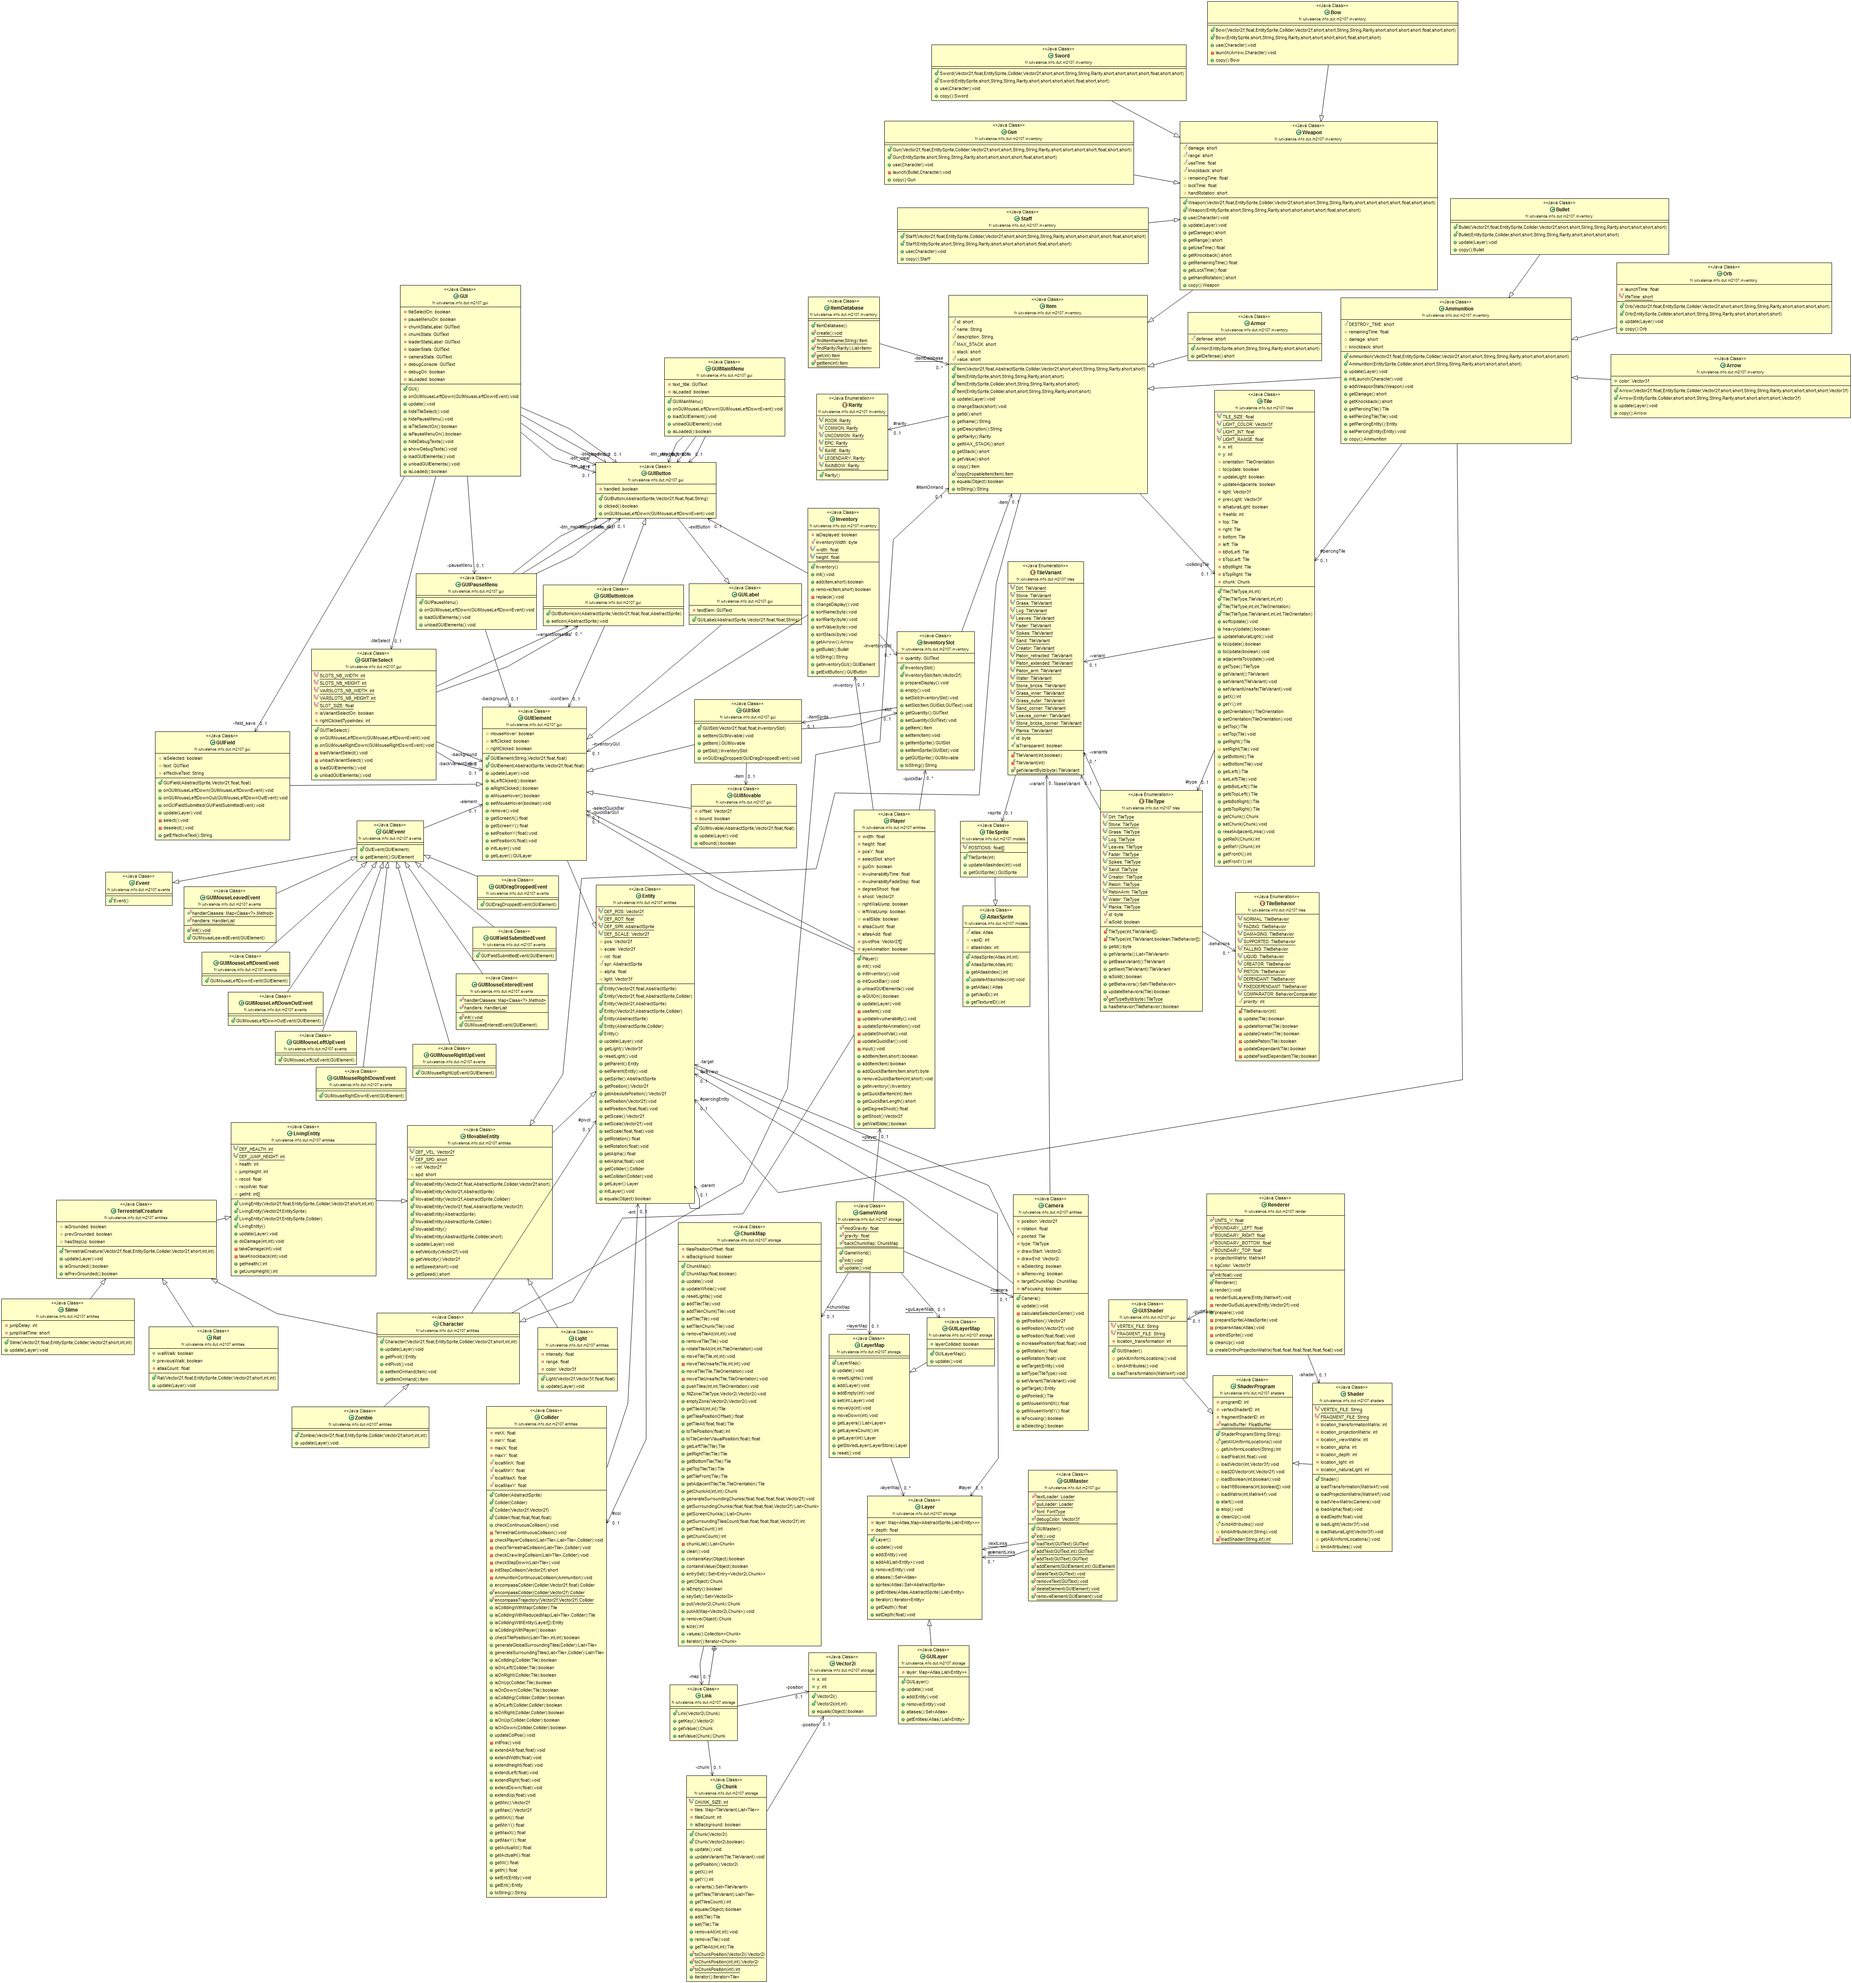
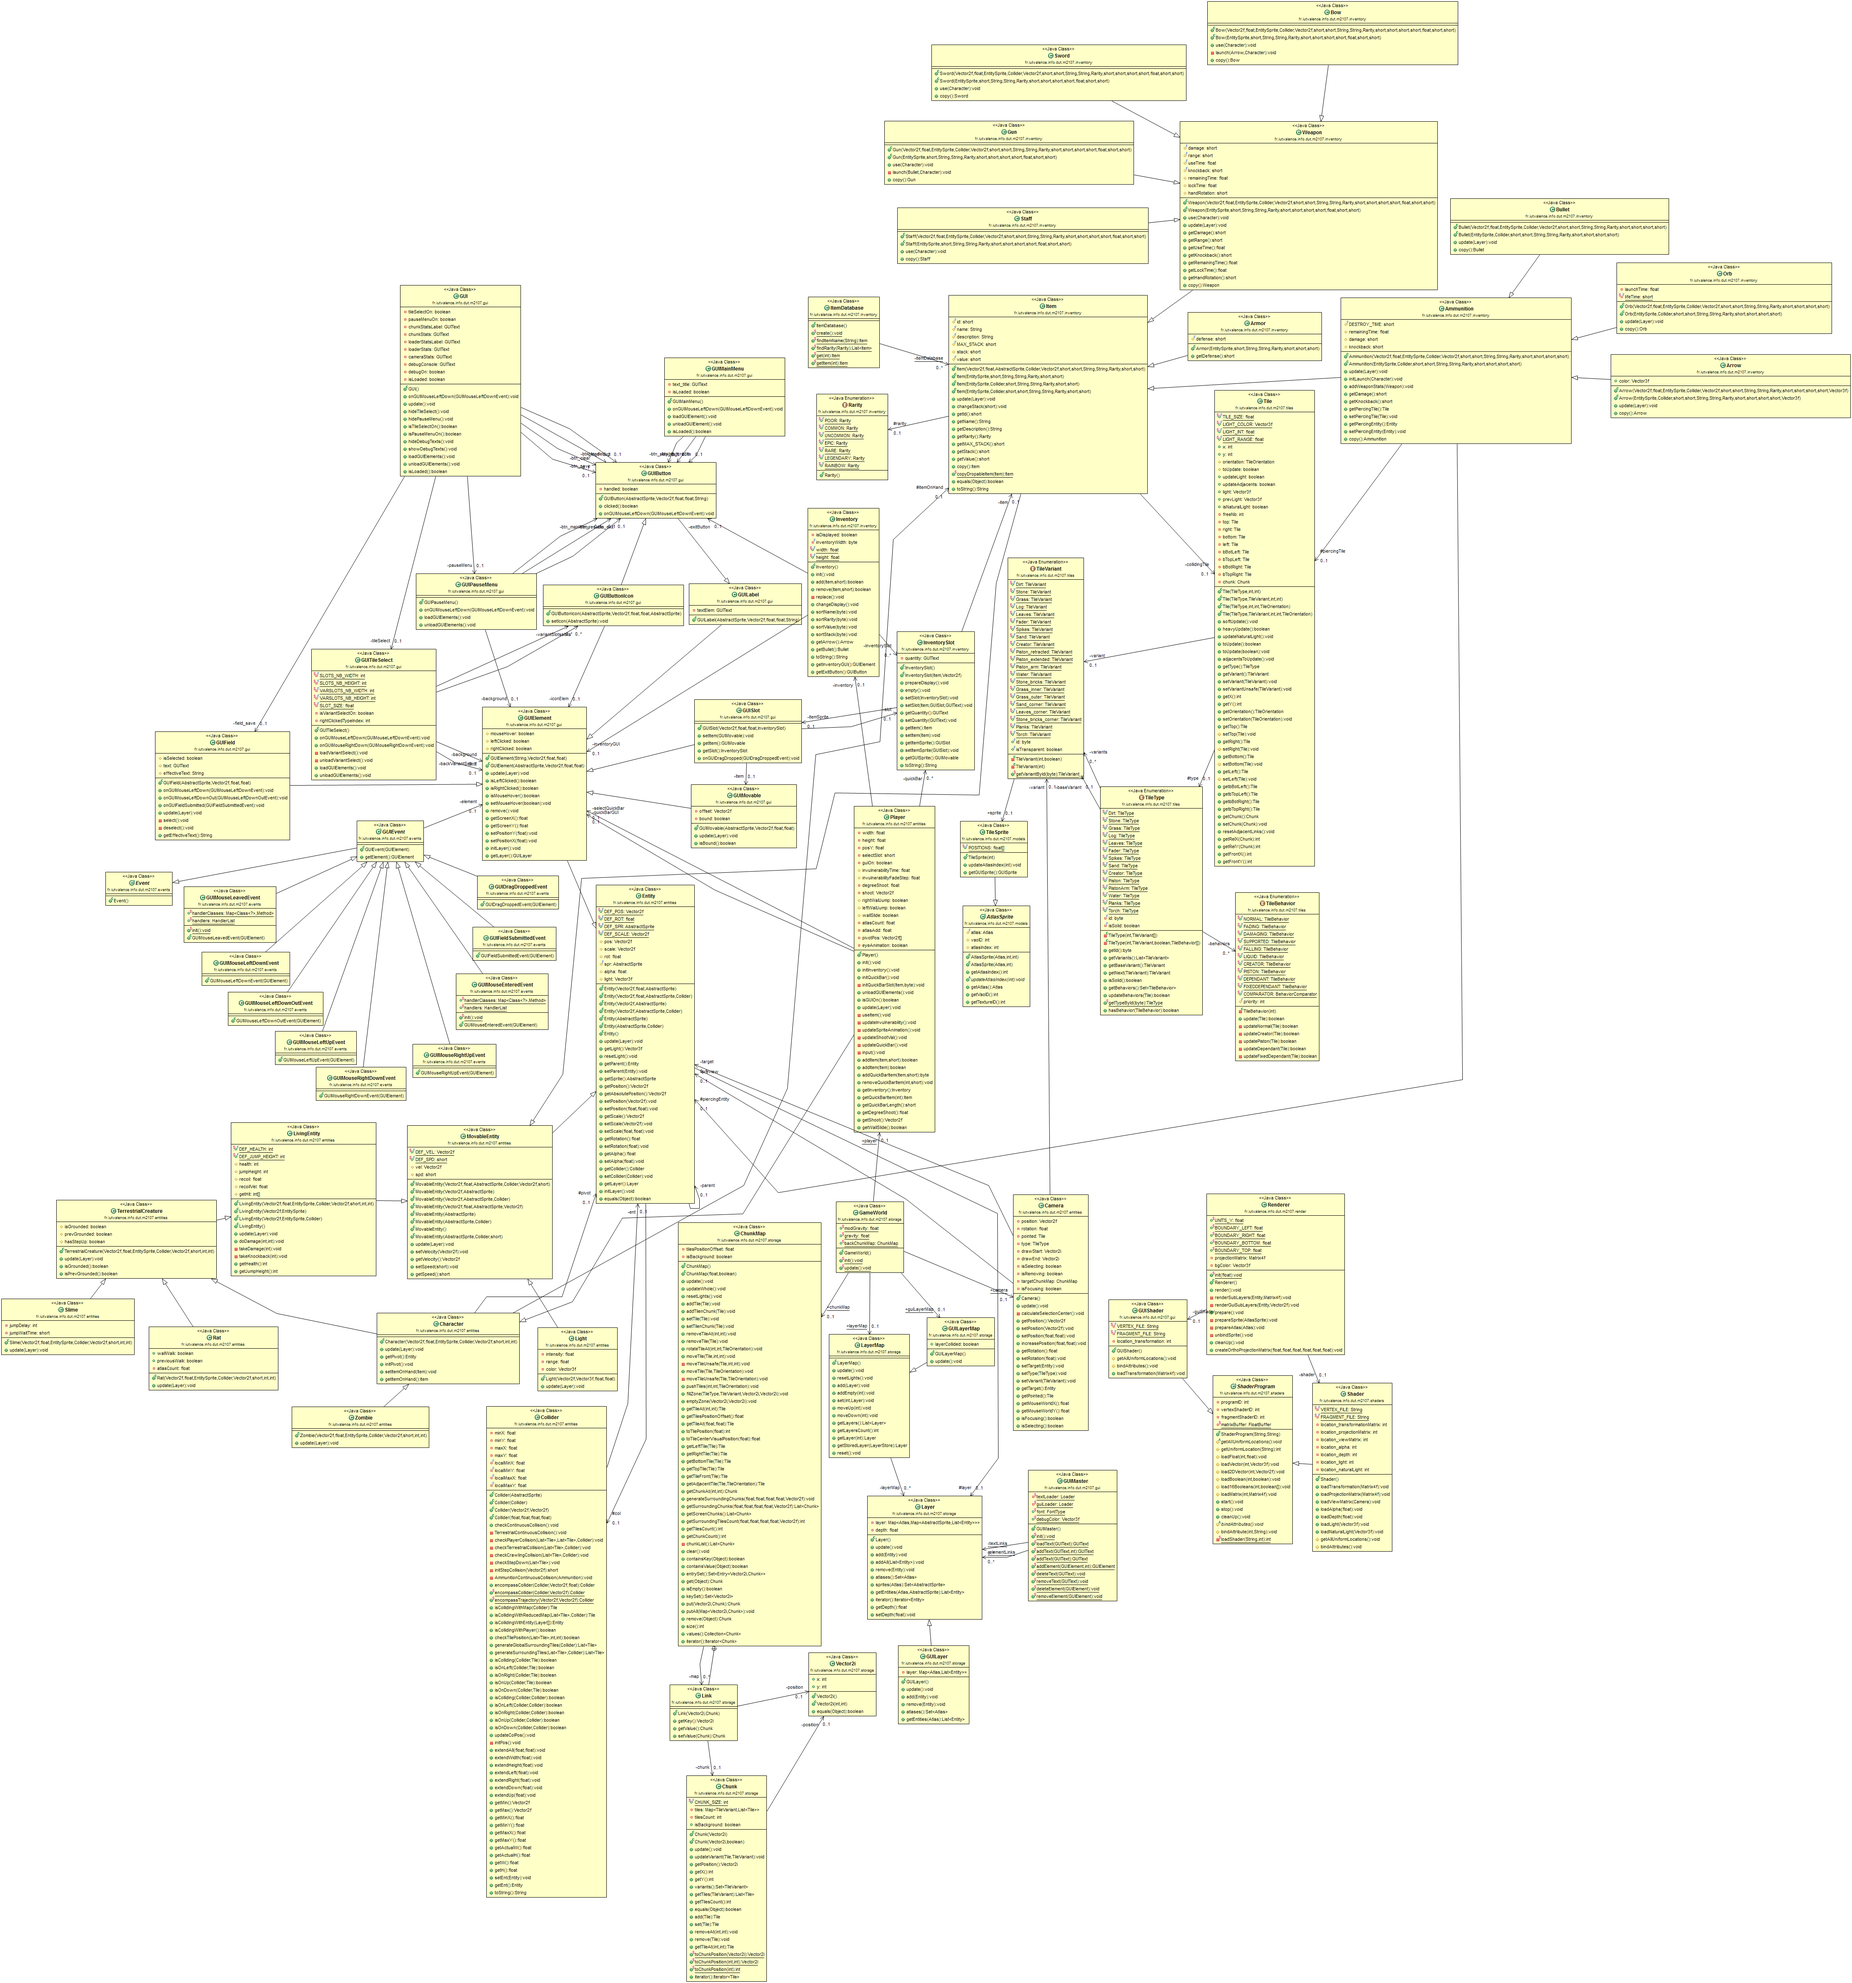
JUnit Maths class tests
- Added some JUnit tests for some methods of Maths class
- fixed overlapping link in UML diagram

diff --git a/src/fr/iutvalence/info/dut/m2107/junit/MathsTest.java b/src/fr/iutvalence/info/dut/m2107/junit/MathsTest.java
@@ -1,0 +1,66 @@
+package fr.iutvalence.info.dut.m2107.junit;
+
+import fr.iutvalence.info.dut.m2107.toolbox.Maths;
+import junit.framework.Test;
+import junit.framework.TestCase;
+import junit.framework.TestSuite;
+
+public class MathsTest extends TestCase {
+	
+	public MathsTest(String name) {
+		super(name);
+	}
+	
+	public void testTruncate() {
+		assertEquals(1f, Maths.truncate(1.12345f, 0));
+		assertEquals(1.1f, Maths.truncate(1.12345f, 1));
+		assertEquals(1.12f, Maths.truncate(1.12345f, 2));
+		assertEquals(1.123f, Maths.truncate(1.12345f, 3));
+		assertEquals(1.1234f, Maths.truncate(1.12345f, 4));
+	}
+	
+	public void testPow() {
+		assertEquals(4f, Maths.pow(2f, 2));
+		assertEquals(256f, Maths.pow(2f, 8));
+		assertEquals(16f, Maths.pow(4f, 2));
+		assertEquals(216f, Maths.pow(6f, 3));
+		assertEquals(1f, Maths.pow(6f, 0));
+	}
+	
+	public void testFastAbs() {
+		assertEquals(1f, Maths.fastAbs(1f));
+		assertEquals(1f, Maths.fastAbs(-1f));
+		assertEquals(145f, Maths.fastAbs(145f));
+		assertEquals(.42f, Maths.fastAbs(-.42f));
+		assertEquals(1516451651f, Maths.fastAbs(1516451651f));
+	}
+	
+	public void testFastFloor() {
+		assertEquals(1, Maths.fastFloor(1.42f));
+		assertEquals(512, Maths.fastFloor(512.9999f));
+		assertEquals(-6, Maths.fastFloor(-5.1f));
+		assertEquals(0, Maths.fastFloor(.42f));
+		assertEquals(-1912, Maths.fastFloor(-1911.9999f));
+	}
+	
+	public void testRound() {
+		assertEquals(1.11f, Maths.round(1.106f, 2));
+		assertEquals(1.12f, Maths.round(1.116f, 2));
+		assertEquals(-101.666f, Maths.round(-101.6664f, 3));
+		assertEquals(0f, Maths.round(0.000001f, 4));
+		assertEquals(1.5f, Maths.round(1.5f, 1));
+	}
+	
+	public static Test suite() {
+		TestSuite suite = new TestSuite();
+		
+		suite.addTest(new MathsTest("testTruncate"));
+		suite.addTest(new MathsTest("testPow"));
+		suite.addTest(new MathsTest("testFastAbs"));
+		suite.addTest(new MathsTest("testFastFloor"));
+		suite.addTest(new MathsTest("testRound"));
+		
+		return suite;
+	}
+	
+}

diff --git a/src/fr/iutvalence/info/dut/m2107/tiles/Tile.java b/src/fr/iutvalence/info/dut/m2107/tiles/Tile.java
@@ -3,12 +3,10 @@ package fr.iutvalence.info.dut.m2107.tiles;
 import org.lwjgl.util.vector.Vector2f;
 import org.lwjgl.util.vector.Vector3f;
 
-import fr.iutvalence.info.dut.m2107.entities.Entity;
 import fr.iutvalence.info.dut.m2107.events.EventManager;
 import fr.iutvalence.info.dut.m2107.events.TileVariantChangedEvent;
 import fr.iutvalence.info.dut.m2107.storage.Chunk;
 import fr.iutvalence.info.dut.m2107.storage.GameWorld;
-import fr.iutvalence.info.dut.m2107.storage.Layer;
 import fr.iutvalence.info.dut.m2107.toolbox.Maths;
 
 /**

diff --git a/src/fr/iutvalence/info/dut/m2107/toolbox/Maths.java b/src/fr/iutvalence/info/dut/m2107/toolbox/Maths.java
@@ -217,16 +217,17 @@ public class Maths {
 	 * Returns a power b
 	 * This method is faster than Math.pow() because it doesn't handle double as power
 	 * @param a a float
-	 * @param b the power (integer)
+	 * @param b the power (positive integer)
 	 * @return a power b
 	 */
 	public static float pow(float a, int b) {
 		float result = 1;
+		if (b < 0) throw new IllegalArgumentException("Power b must be a positive integer");
 		while(b > 0) {
 			if (b % 2 != 0) {
 				result *= a;
 				b--;
-			} 
+			}
 			a *= a;
 			b /= 2;
 		}
